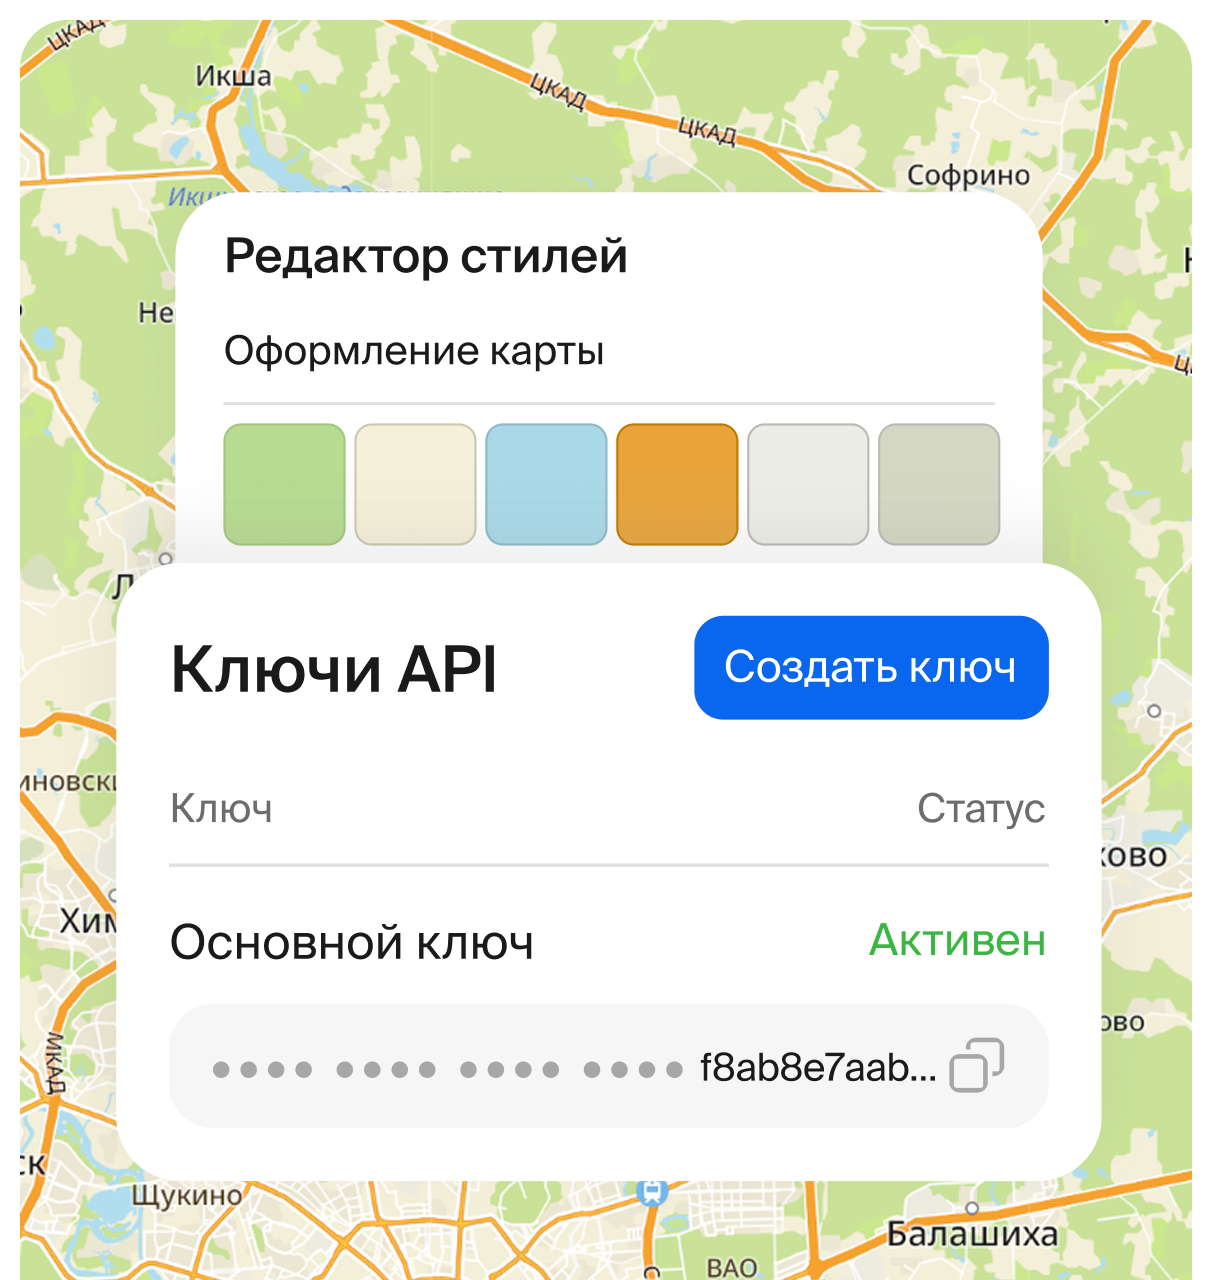
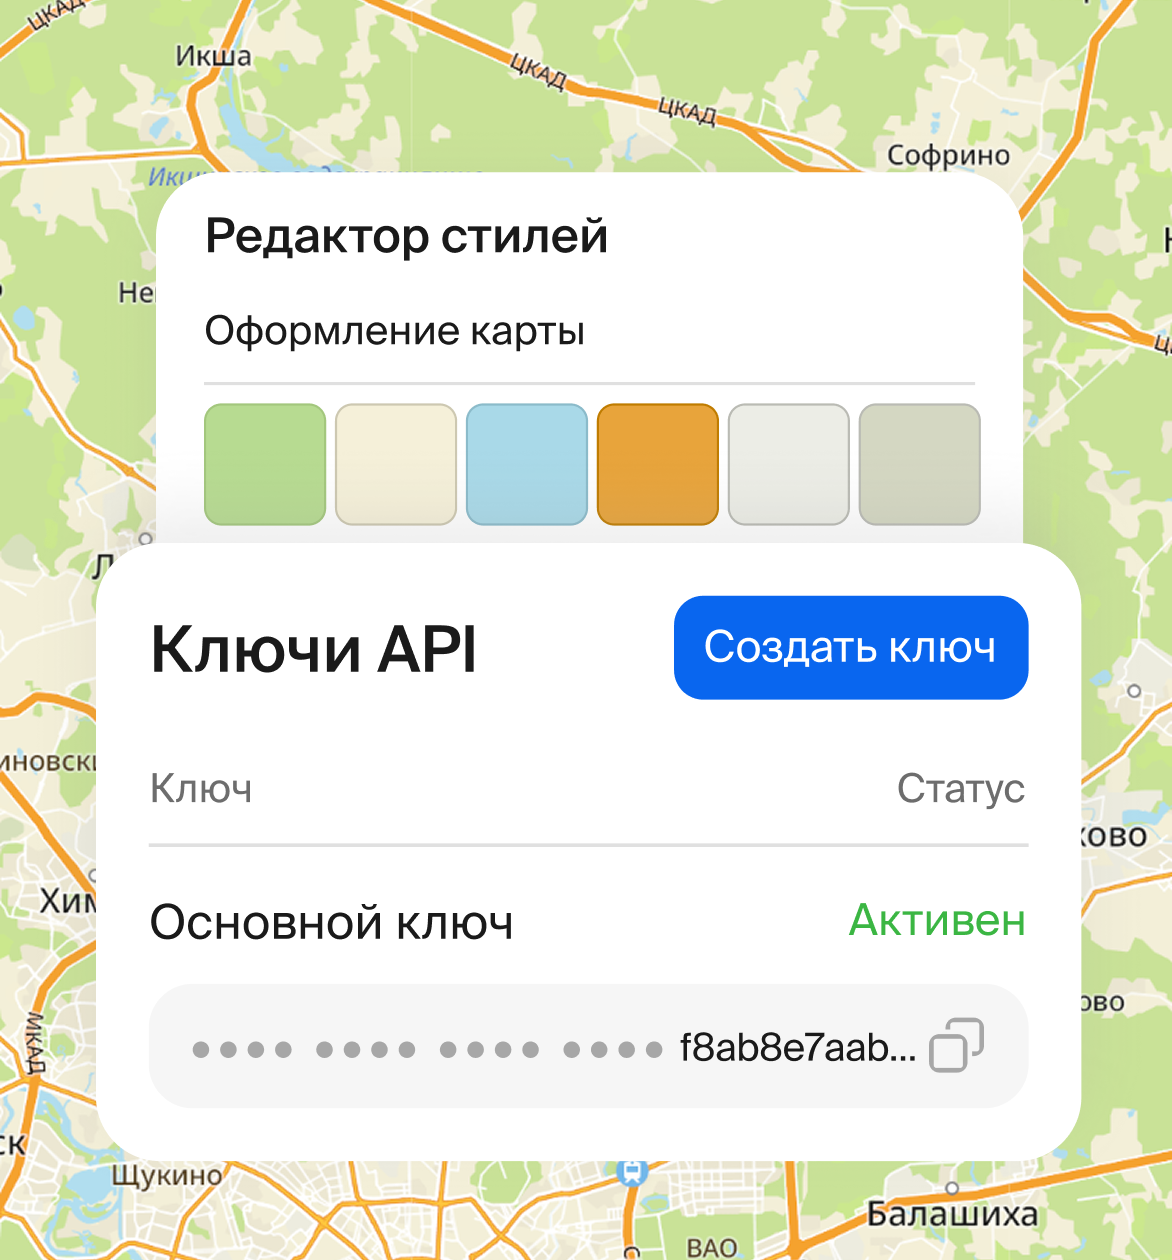
Replace mobile demonstration image and fill frame

diff --git a/landing-prototype/components/technical-demonstration/TechnicalDemonstration.module.css b/landing-prototype/components/technical-demonstration/TechnicalDemonstration.module.css
@@ -175,7 +175,7 @@
   .summaryRow { margin-top: 12px; }
   .framedCopy .summaryRow { align-items: stretch; }
   .framedCopy .action { width: 100%; }
-  .media img { max-height: min(320px, 85vw); }
+  .media:not(.framed) img { max-height: min(320px, 85vw); }
   .emptyMedia { min-height: 240px; }
   .placeholder { min-height: 240px; }
   .showcase { aspect-ratio: 303 / 239; }

diff --git a/specs/technical-demonstration-spec.md b/specs/technical-demonstration-spec.md
@@ -48,7 +48,7 @@
 
 На планшете рама сужается с сохранением пропорции 1072:661. На мобильном при ширине экрана 375 px подложка имеет ширину 343 px, её горизонтальные поля — по 20 px, а внешняя рама — **303 × 320 px**. Рама адаптируется по ширине с пропорцией 303:320: например, при экране 390 px её размер — 318 × 336 px. Толщина окантовки — 5 px сверху и по бокам, внешний верхний радиус 9 px, внутренний 6 px. Низ всегда прямой и совпадает с нижней границей подложки.
 
-Изображение заполняет слот через `object-fit: cover`. Текущий десктопный файл 3012 × 1868 px почти соответствует пропорции слота 1048:649; расхождение менее 0,2%, поэтому кадрирование минимально. Мобильный файл — 1212 × 1280 px; при ширине экрана 375 px слот имеет размер 293 × 315 px. Файл другой пропорции может кадрироваться: для сохранения композиции нужно подготовить его под слот и при необходимости задать отдельный `image.mobile`. `alt` кратко описывает смысл визуала; для чисто декоративного файла допустимо `alt: ""`.
+Изображение **всегда заполняет весь внутренний слот** на десктопе, планшете и мобильном экране: ширина и высота изображения равны ширине и высоте слота, `object-fit: cover`, без ограничивающего `max-height` и без пустой полосы снизу. При другой пропорции лишние края кадрируются; для сохранения композиции нужно подготовить файл под слот и при необходимости задать отдельный `image.mobile`. Текущий десктопный файл 3012 × 1868 px почти соответствует пропорции слота 1048:649; расхождение менее 0,2%, поэтому кадрирование минимально. Мобильный файл — 1172 × 1260 px; при ширине экрана 375 px слот имеет размер 293 × 315 px, то есть пропорции почти совпадают. `alt` кратко описывает смысл визуала; для чисто декоративного файла допустимо `alt: ""`.
 
 ## Свечение
 

diff --git a/landing-prototype/public/images/technical-demonstration/README.md b/landing-prototype/public/images/technical-demonstration/README.md
@@ -10,7 +10,7 @@ image: {
 },
 ```
 
-На широком экране внутренний слот — 1048 × 649 px. Текущий десктопный файл — 3012 × 1868 px, почти той же пропорции; кадрирование по высоте менее 0,2%. Мобильный файл — 1212 × 1280 px; при ширине экрана 375 px внешняя рама — 303 × 320 px, внутренний слот — 293 × 315 px. Изображение заполняет слот с `object-fit: cover`: другой формат может обрезаться. Рама: 12 px сверху и по бокам на десктопе, 5 px на мобильном, без нижнего борта и нижних скруглений.
+На широком экране внутренний слот — 1048 × 649 px. Текущий десктопный файл — 3012 × 1868 px, почти той же пропорции; кадрирование по высоте менее 0,2%. Мобильный файл — 1172 × 1260 px; при ширине экрана 375 px внешняя рама — 303 × 320 px, внутренний слот — 293 × 315 px. На всех ширинах изображение заполняет слот по ширине и высоте с `object-fit: cover`, без пустой полосы снизу; другой формат может обрезаться. Рама: 12 px сверху и по бокам на десктопе, 5 px на мобильном, без нижнего борта и нижних скруглений.
 
 `Glow (2).png` подключён в `content/map-constructor.ts` через `glowSrc` как отдельный приглушённый слой позади рамы. Он не входит в файл изображения и не должен быть запечён в новый мобильный ассет.
 
